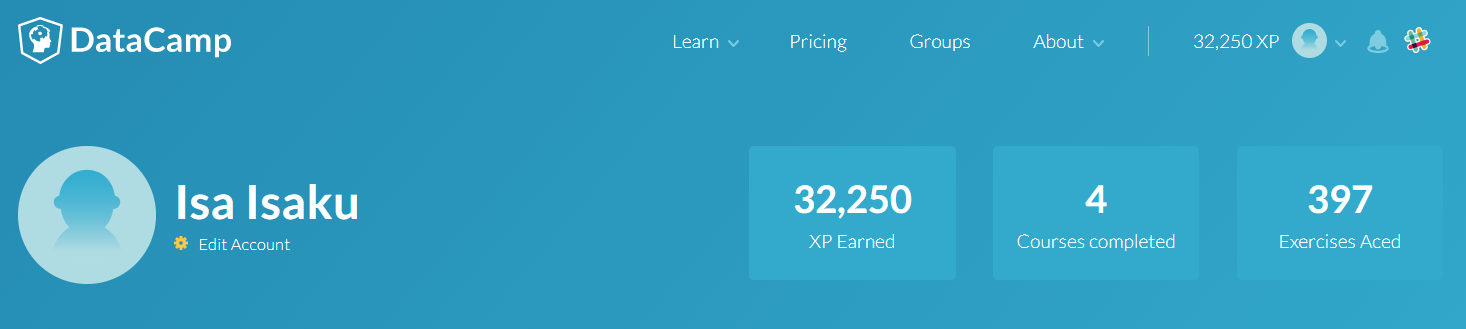
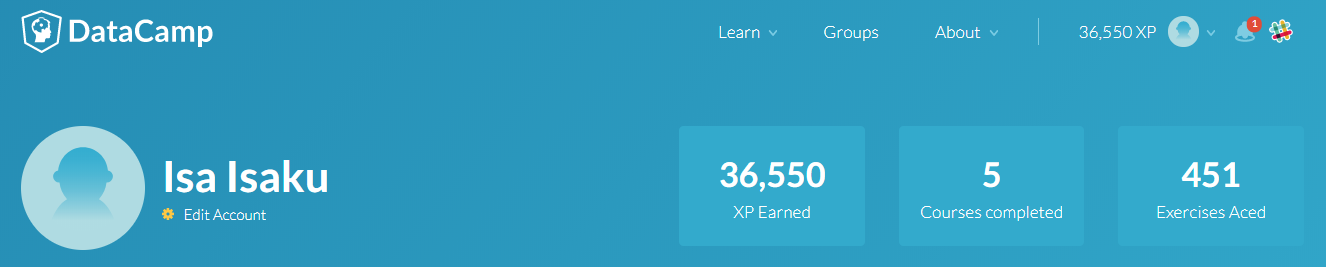
DataCamp bijgewerkt

diff --git a/README.md b/README.md
@@ -4,7 +4,7 @@
 
 **Naam:** Isa Isaku  
 **Studentnummer:** 14149486  
-**Datum:** 26-01-2018
+**Datum:** 13-02-2018
 
 ## Inhoudsopgave
 
@@ -42,7 +42,10 @@ Binnen de minor heb ik aangeleverde lesstof en opdrachten op o.a. DataCamp, Cour
 
 ### 1.1 Datacamp
 
-Op DataCamp heb ik nagenoeg alle verplichte onderdelen gevolgd. Het enige wat momenteel ontbreekt zijn de 4 hoofdstukken van de cursus 'Supervised Learning with scikit-learn'. In de map [DataCamp](DataCamp "DataCamp") is het bewijsmateriaal te vinden. Niet alle verplichte onderdelen staan in het overzicht van voltooide opdrachten. Vandaar dat ik een extra afbeelding ter aanvulling heb toegevoegd.
+Op DataCamp heb ik alle verplichte onderdelen gevolgd. In de map [DataCamp](DataCamp "DataCamp") is het bewijsmateriaal te vinden. Niet alle verplichte onderdelen staan in het overzicht van voltooide opdrachten. Vandaar dat ik een extra afbeelding ter aanvulling heb toegevoegd.
+
+![test](DataCamp/Voltooide%20opdrachten.PNG)
+![test](DataCamp/Accountoverzicht.PNG) | ![test](DataCamp/Aanvulling%20voltooide%20opdrachten.PNG)
 
 ### 1.2 Coursera
 
